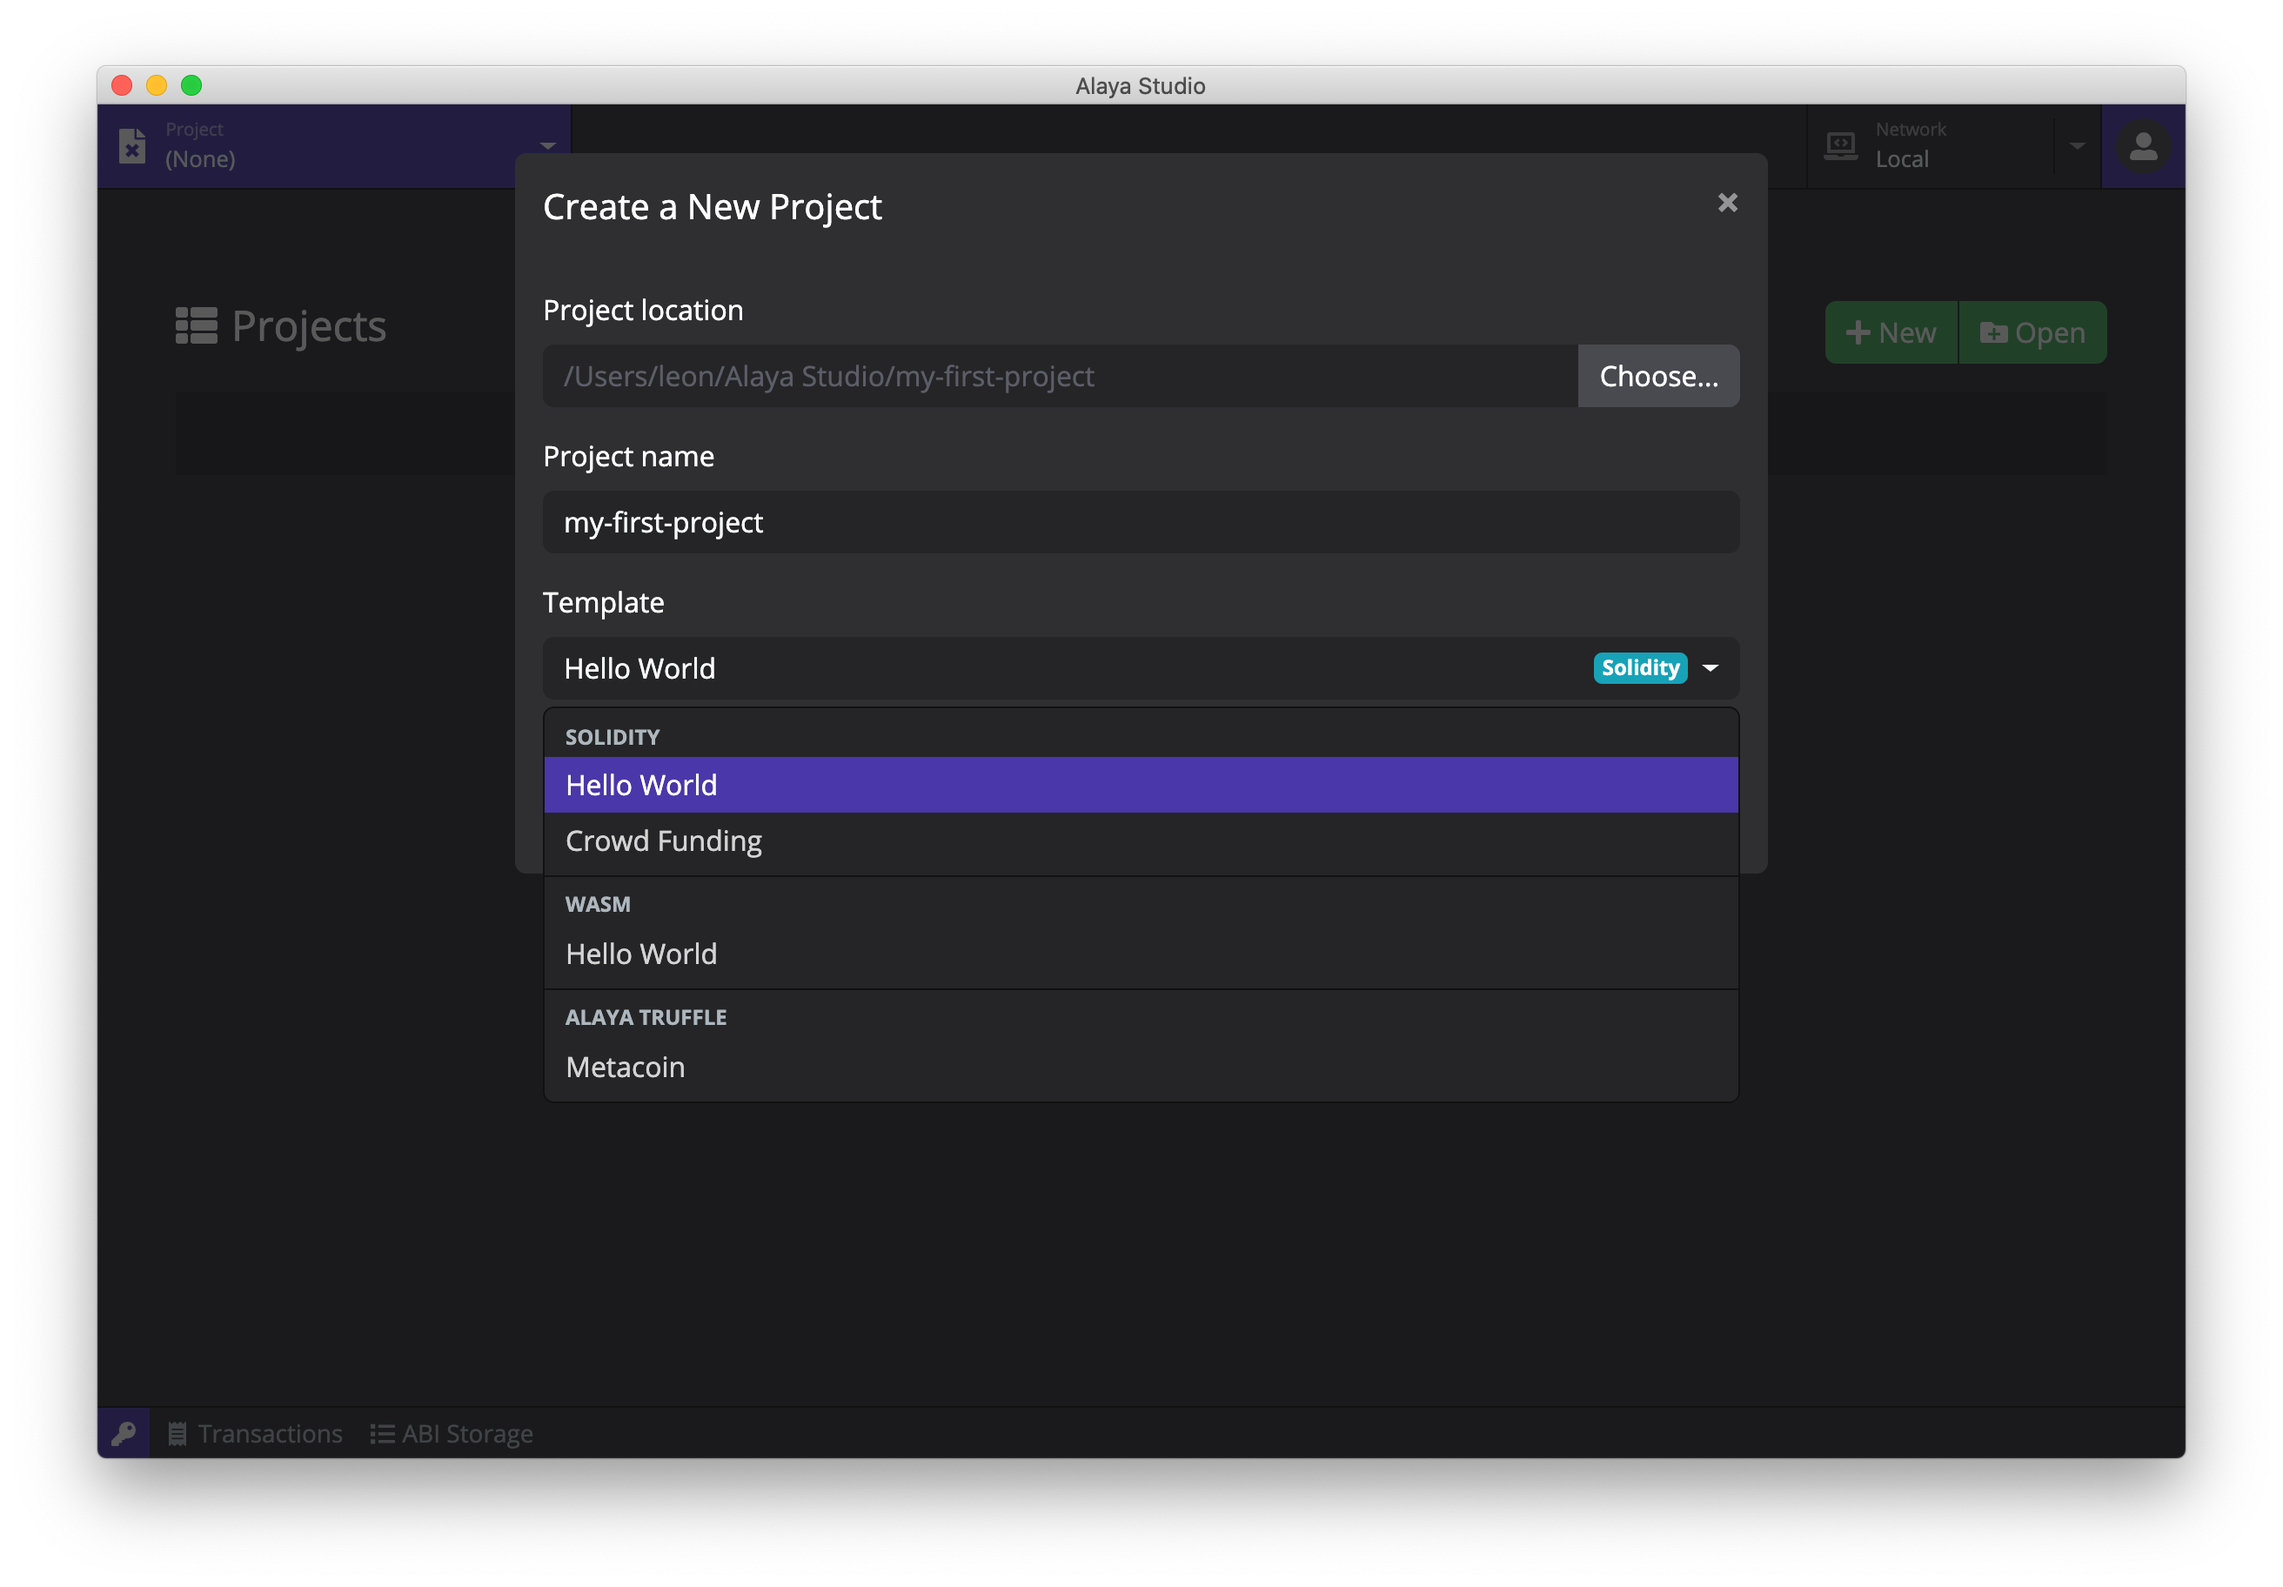
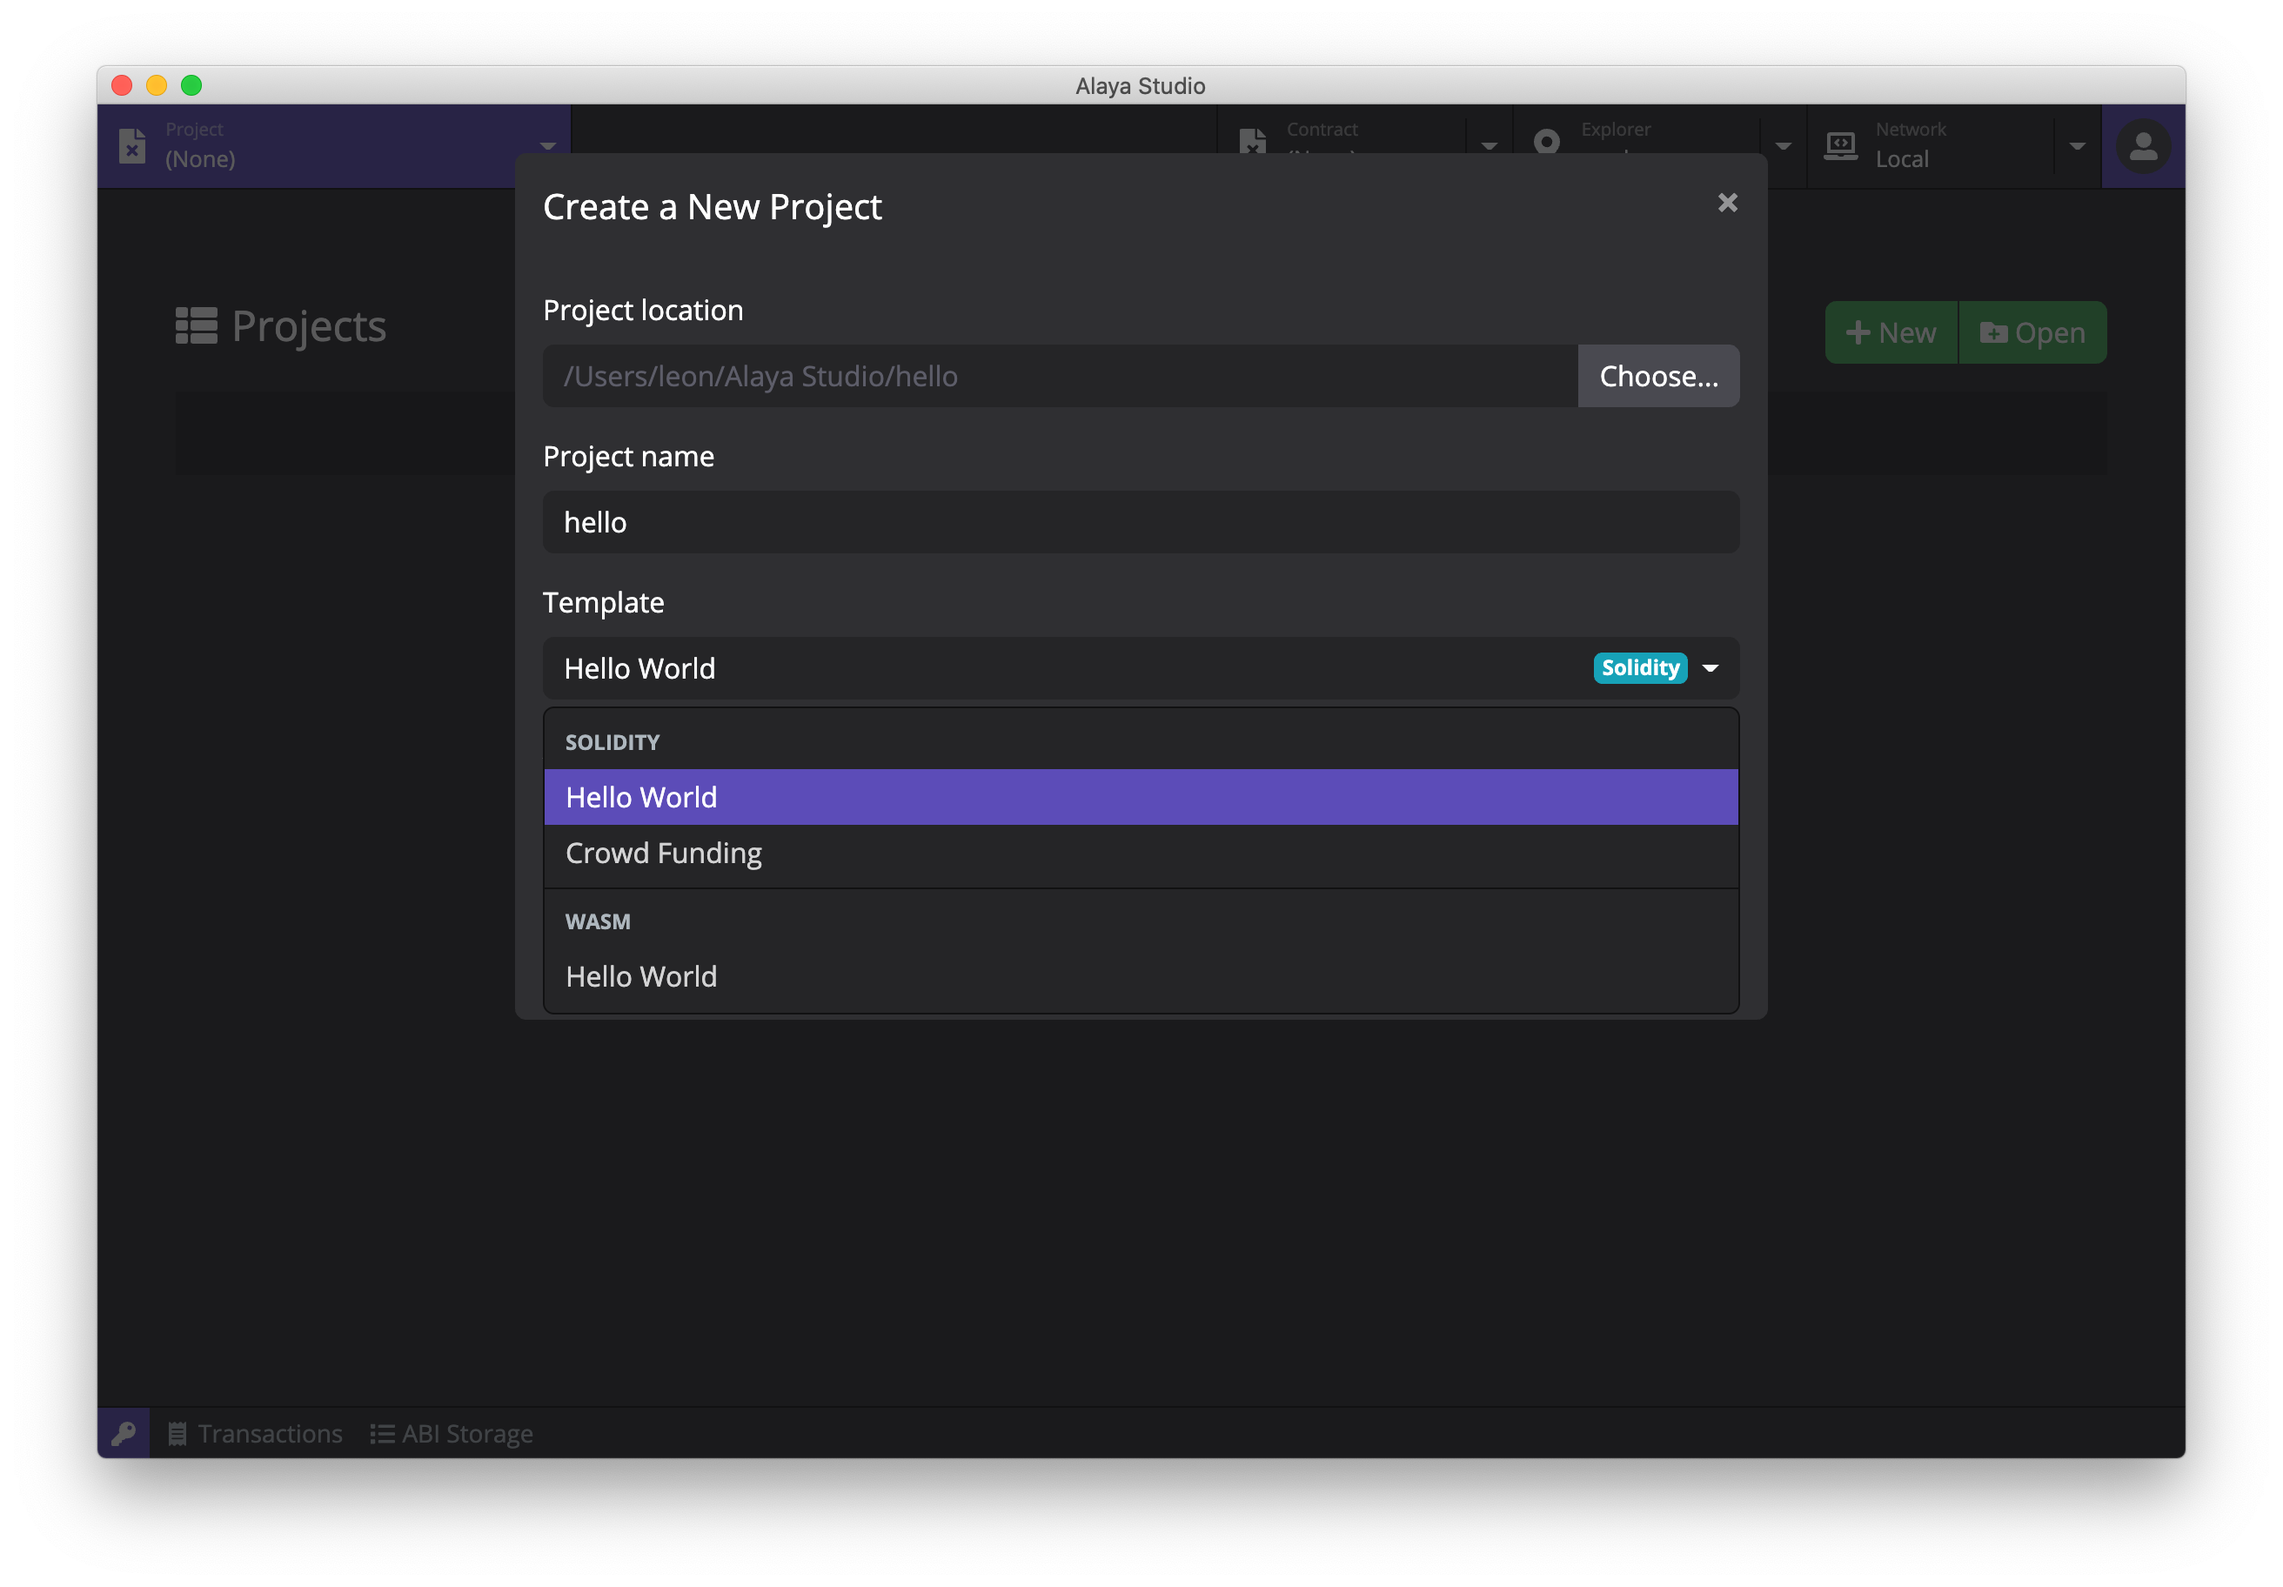
docs: update doc

diff --git a/README.md b/README.md
@@ -65,11 +65,8 @@ Alaya Studio 安装包可以下载 [macOS](https://platon-assets-1303090311.cos.
 点击顶部的 *Project* 标签，主页面将切换至项目管理器。点击页面右上角的 *New* 按钮打开创建项目弹窗，输入项目名称并选择合适的模版，Alaya Studio 目前提供了多个模版：
 
 - `Hello World` (Solidity)
-- `Coin` (Solidity)
 - `Crowd Funding` (Solidity)
-- `Open Zeppelin` (Solidity)
 - `Hello World` (WASM)
-- `Mtacoin` (Alaya Truffle)
 
 <p align="center">
   <img src="./screenshots/create_project.png" width="720px">
@@ -93,4 +90,33 @@ Alaya Studio 安装包可以下载 [macOS](https://platon-assets-1303090311.cos.
 
 <p align="center">
   <img src="./screenshots/deploy_parameters.png" width="720px">
+</p>
+
+点击 *Deploy* 按钮 A la ya Studio 将进行项目部署，部署结果将会弹窗显示。
+
+<p align="center">
+  <img src="./screenshots/deploy.png" width="720px">
+</p>
+
+### 调用合约
+
+成功部署智能合约后，点击弹窗中点击 *contract* 旁的地址，主页面将切换至合约浏览器，Alaya Studio 将自动打开刚才部署完成的智能合约。
+
+合约浏览器页面主要分为两个部分：
+
+- 左边为合约的调用方法，点击左半部分的左上角蓝色按钮弹出的下拉框显示当前合约所定义的方法，点击方法名称可以切换调用的方法。
+- 右边为合约的数据读取，点击右半部分的左上角蓝色按钮弹出的下拉框显示当前合约的数据表，点击表名称可以切换查看不同表中的数据。
+
+Alaya Studio 会自动读取合约 ABI 中的 functions，并为每个 function 生成参数表单。用户可以简单的选择要调用的 function，输入参数，选择签名者（需要为 keypair manager 中存在的地址；读操作不需选择），并点击运行按钮进行合约调用。调用结果（成功或失败）将显示在下方的 result 栏中。
+
+<p align="center">
+  <img src="./screenshots/contract.png" width="720px">
+</p>
+
+接下来我们调用部署好的合约 `HelloWorld`。选择 *setName* 方法，在 *Parameters* 下填入 *_name*，如 填入`Hello Alaya`。点击 *estimate* 按钮，Alaya Studio 会自动估算这笔交易所需要的手续费。Alaya Studio 会自动选择 *Authorization* 地址，你也可以根据需要选择不同的地址。点击点击上方的执行按钮开始调用 *setName* 方法并发送交易。
+
+在右边选择 *getName* 方法，点击执行按钮便可以在下方 *Result* 中看到刚刚设置的 `Hello Alaya` 了。
+
+<p align="center">
+  <img src="./screenshots/hello.png" width="720px">
 </p>
